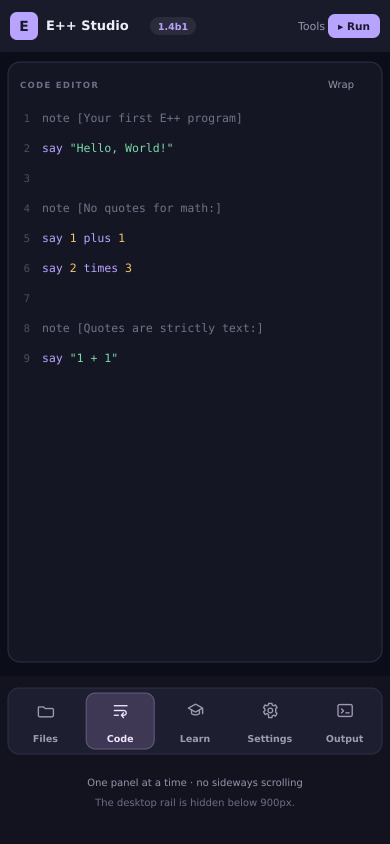
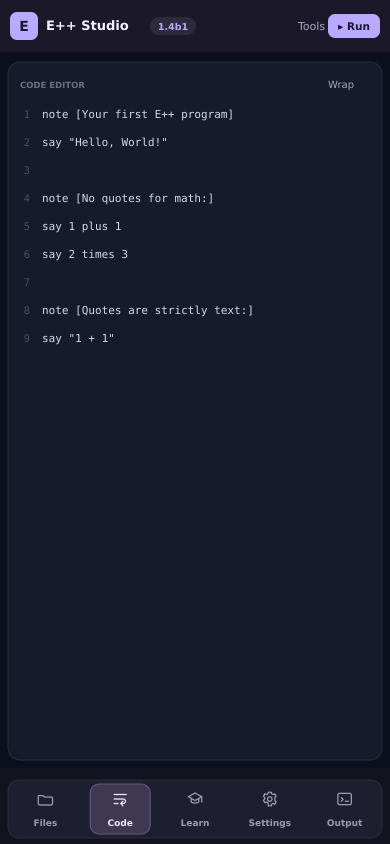
1.4b1: fix the phone layout properly (the last attempt pointed at dead code)
Reported: at preview-pane width the editor was crushed into a sliver with
the Output panel under it.

Cause, and it was mine. The previous commit deleted index.html's working
inline panel switcher and left a comment saying navigation lived in
js/ide.js. js/ide.js is the LEGACY IDE and this page never loads it, so
nothing set data-view, the two-column .workspace grid never collapsed, and
the phone shell showed both panes squeezed into half the width.

Three separations of one idea had to become one:

  - js/studio-mobile.js now owns it: buttons -> <body data-mobile-view>,
    a fresh starting view, Learn/Settings wired for phones, and a pure
    apply() so the switching is testable without a browser.
  - css/studio.css keys its panel rules off data-mobile-view. It was still
    reading data-view, so even a correct attribute would not have revealed
    Files or Output.
  - <body data-mobile-view="editor"> ships in the markup, so the first
    paint is right and it works without JavaScript.

tests/run-tests.mjs now drives the module with fake buttons (every view
applies, exactly one is active, aria-pressed tracks, junk falls back) and
asserts the markup default, the module being loaded, and CSS and JS using
the same attribute.

diff --git a/js/studio-mobile.js b/js/studio-mobile.js
@@ -1,0 +1,104 @@
+/* E++ Studio phone navigation (1.4b1).
+ *
+ * Below 900px the Studio shows one panel at a time: Files, Code or Output.
+ * The choice lives on <body data-mobile-view="...">, and css/studio.css keys
+ * its panel rules off that same attribute. The two must agree - 1.4b1 shipped
+ * with the buttons setting `data-view` while the CSS (and js/ide.js, which is
+ * the legacy IDE and is not loaded here) used `data-mobile-view`, so nothing
+ * switched and the editor was crushed into a sliver.
+ *
+ * The core is a pure function so it can be tested without a browser:
+ *   EPP.Mobile.apply(view, { body, buttons }) -> the view that was applied
+ */
+(function (global) {
+  'use strict';
+
+  var VIEWS = ['files', 'editor', 'console'];
+
+  function normalise(view) {
+    if (view === 'code') return 'editor';
+    if (view === 'files' || view === 'editor' || view === 'console') return view;
+    return 'editor';
+  }
+
+  /**
+   * Apply a view to a body element and its buttons.
+   * Anything with classList/getAttribute/setAttribute will do, which keeps
+   * this testable in Node with plain objects.
+   */
+  function apply(view, parts) {
+    var next = normalise(view);
+    var body = parts && parts.body;
+    var buttons = (parts && parts.buttons) || [];
+    if (body && body.setAttribute) body.setAttribute('data-mobile-view', next);
+    for (var i = 0; i < buttons.length; i++) {
+      var button = buttons[i];
+      var selected = button.getAttribute('data-mobile-view') === next;
+      if (button.classList) button.classList.toggle('active', selected);
+      button.setAttribute('aria-pressed', selected ? 'true' : 'false');
+    }
+    return next;
+  }
+
+  function read(doc) {
+    var body = doc && doc.body;
+    return normalise(body && body.getAttribute ? body.getAttribute('data-mobile-view') : 'editor');
+  }
+
+  function init(doc) {
+    doc = doc || global.document;
+    if (!doc || init.done) return init;
+    init.done = true;
+
+    var body = doc.body;
+    var panes = Array.prototype.slice.call(doc.querySelectorAll('.mobile-view-btn[data-mobile-view]'));
+    var dialogs = Array.prototype.slice.call(doc.querySelectorAll('.mobile-view-btn[data-action]'));
+
+    function setView(view) {
+      var applied = apply(view, { body: body, buttons: panes });
+      if (applied === 'editor') {
+        var lines = doc.getElementById('statusLines');
+        void lines;
+        // The editor was hidden while the view changed; line heights are only
+        // measurable once it is back in the layout.
+        if (global.requestAnimationFrame) global.requestAnimationFrame(function () {
+          try { global.dispatchEvent(new global.Event('resize')); } catch (_) {}
+        });
+      }
+      return applied;
+    }
+
+    panes.forEach(function (button) {
+      button.addEventListener('click', function () {
+        setView(button.getAttribute('data-mobile-view'));
+      });
+    });
+
+    // Learn and Settings live on the desktop rail, which phones do not show.
+    dialogs.forEach(function (button) {
+      button.addEventListener('click', function () {
+        var target = doc.getElementById(button.getAttribute('data-action'));
+        if (target) target.click();
+      });
+    });
+
+    // Start from the markup if it names a view, otherwise Code.
+    setView(read(doc));
+
+    var api = { setView: setView, view: function () { return read(doc); } };
+    global.EPP = global.EPP || {};
+    global.EPP.Mobile = api;
+    return true;
+  }
+
+  global.EPP = global.EPP || {};
+  global.EPP.Mobile = global.EPP.Mobile || { apply: apply, read: read, init: init, views: VIEWS.slice() };
+
+  if (typeof document !== 'undefined') {
+    if (document.readyState === 'loading') {
+      document.addEventListener('DOMContentLoaded', function () { init(document); });
+    } else {
+      init(document);
+    }
+  }
+})(typeof window !== 'undefined' ? window : globalThis);

diff --git a/index.html b/index.html
@@ -359,7 +359,7 @@
   window.addEventListener('resize', scaleStudio);
 </script>
 </head>
-<body>
+<body data-mobile-view="editor">
 
 <header class="topbar">
   <div class="brand">
@@ -1033,6 +1033,7 @@ set the image of the actor 'hero' to "hero2.png"</pre>
 <script src="js/game-library.js"></script>
 <script src="js/draw-library.js"></script>
 <script src="js/icons.js?v=1.4b1"></script>
+<script src="js/studio-mobile.js?v=1.4b1"></script>
 <script src="js/studio-editor.js"></script>
 <script src="js/diagnostics.js"></script>
 <script src="js/native-lexer-wasm.js"></script>
@@ -5285,14 +5286,9 @@ window.addEventListener('resize', () => {
   updateConsoleHint();
 });
 
-// Workspace navigation lives in js/ide.js (data-mobile-view -> setMobileView),
-// so this page only has to bind the two dialog buttons on the phone bar.
-document.querySelectorAll('.mobile-view-btn[data-action]').forEach(button => {
-  button.addEventListener('click', () => {
-    const target = document.getElementById(button.dataset.action);
-    if (target) target.click();
-  });
-});
+// Workspace navigation lives in js/studio-mobile.js: it owns the phone bar,
+// the <body data-mobile-view> attribute that css/studio.css keys off, and the
+// Learn/Settings buttons that have no rail on a phone.
 document.querySelectorAll('.side-tab').forEach(button => {
   button.addEventListener('click', () => {
     document.querySelectorAll('.side-tab').forEach(item => {

diff --git a/css/studio.css b/css/studio.css
@@ -417,10 +417,10 @@ html, body { background: #0c0f1d !important; }
   .layout { order: 2; flex: 1 1 0; display: grid !important; grid-template-columns: minmax(0, 1fr) !important; min-height: 0; padding: 8px !important; gap: 0 !important; }
   .sidebar { display: none !important; width: 100%; }
   .workspace { display: grid !important; grid-template-columns: minmax(0, 1fr) !important; grid-template-rows: minmax(0, 1fr) !important; gap: 0 !important; }
-  body[data-view='files'] .sidebar { display: flex !important; }
-  body[data-view='files'] .workspace { display: none !important; }
-  body[data-view='editor'] .console-card, body[data-view='console'] .editor-card { display: none !important; }
-  body[data-view='console'] .console-card, body[data-view='editor'] .editor-card { display: flex !important; }
+  body[data-mobile-view='files'] .sidebar { display: flex !important; }
+  body[data-mobile-view='files'] .workspace { display: none !important; }
+  body[data-mobile-view='editor'] .console-card, body[data-mobile-view='console'] .editor-card { display: none !important; }
+  body[data-mobile-view='console'] .console-card, body[data-mobile-view='editor'] .editor-card { display: flex !important; }
   .editor-card, .console-card { height: 100%; border-radius: 12px; }
   .workspace-eyebrow { height: 48px; padding: 0 12px; }
   .workspace-caption { display: none; }
